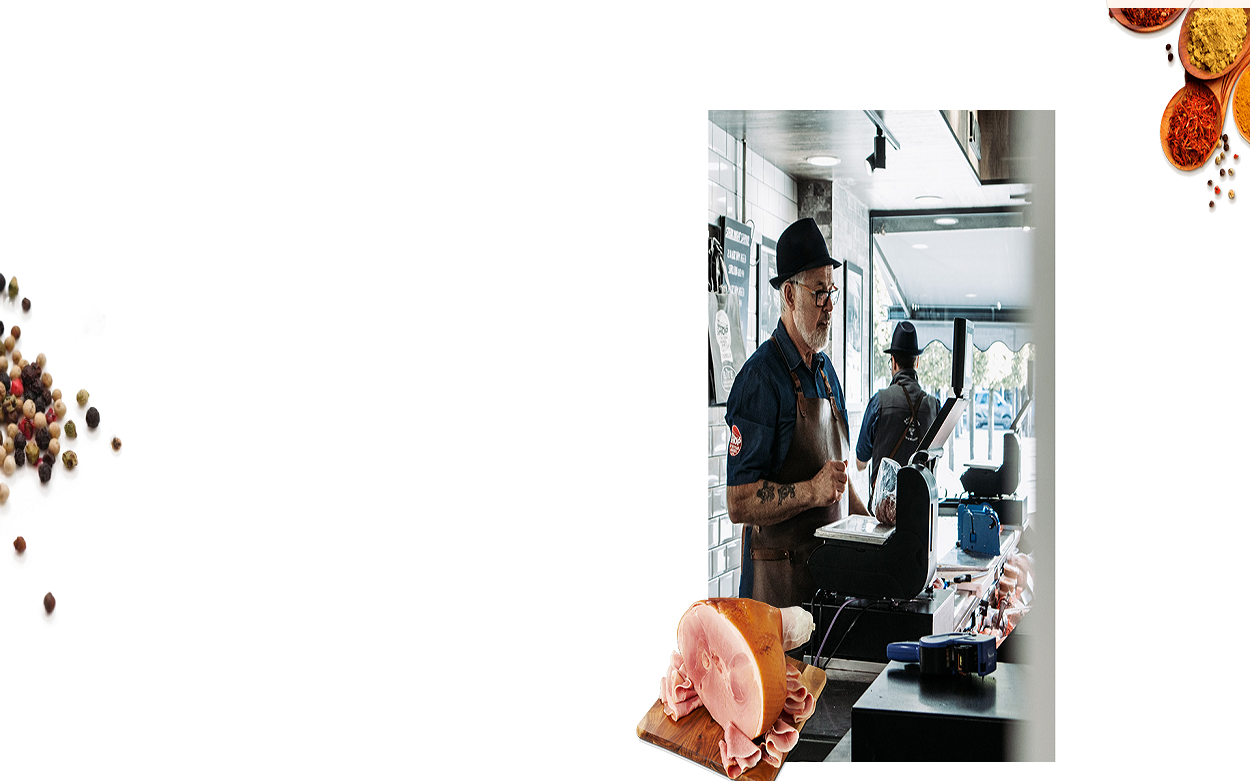
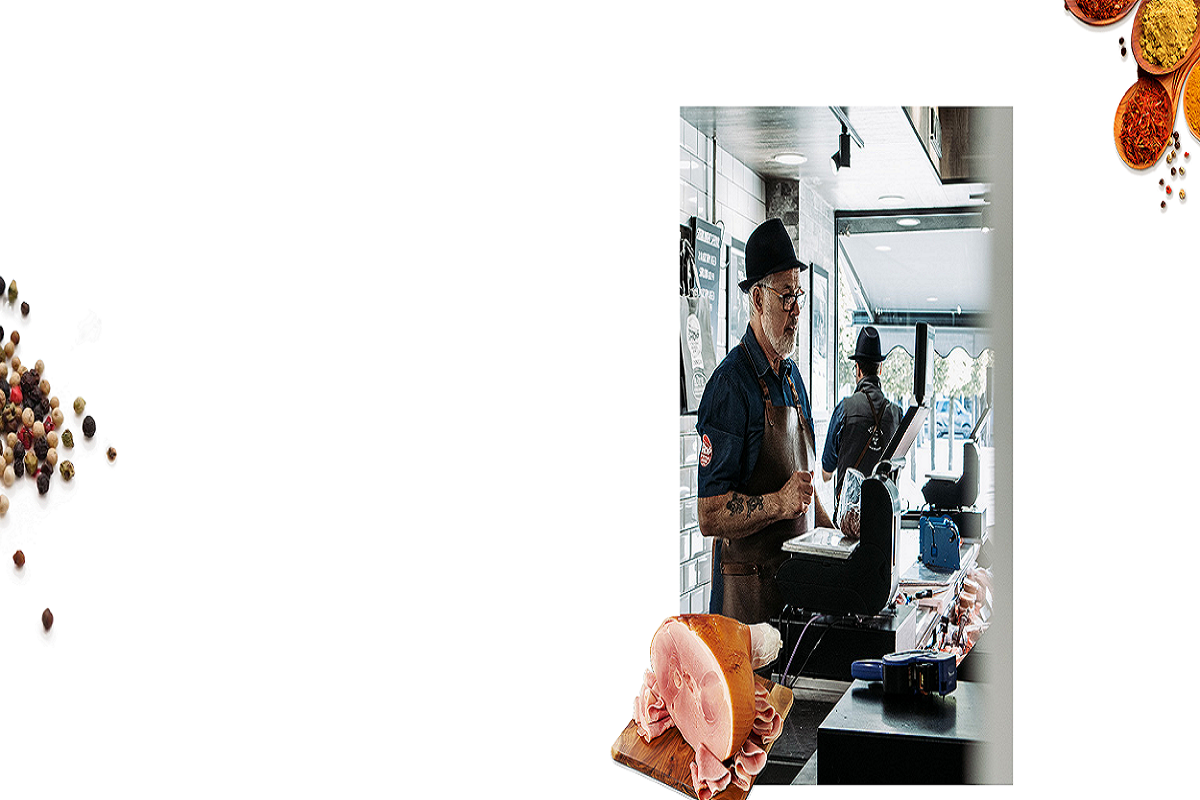
meat house story done

Changed region(s): [[0.4933, 0.1229, 0.8633, 1.0], [0.8633, 0.0, 1.0, 0.2766], [0.0, 0.338, 0.0925, 0.6146]]

diff --git a/assects/style/style.css b/assects/style/style.css
@@ -717,14 +717,19 @@ input[type=text] {
 /* ********************************** */
 
 .meat_house_story{
-    background-image: url('../img/meat_house_sstory/history.png');
+    background-image: url('../img/meat_house_sstory/meat_H_story.png');
     background-size: cover;
     background-repeat: no-repeat;
-    height: 750px;
-    padding: 90px 0px;
-    overflow: hidden;
-     border: var(--border);
+    height: 700px;
+    /* width: 100%; */
+    padding: 90px 40px;
+    position: relative;
+   
 }
+/* .sroty_defination{
+     border: var(--border);
+     
+} */
 .sroty_defination .heading3{
    
     text-transform: unset;
@@ -749,12 +754,12 @@ input[type=text] {
     /* overflow: hidden; */
 }
 .sroty_defination .grass_fed .grass_fed_definition .paragraph_item{
-    width: 100%;
+    width: 500px;
 }
 .sroty_defination .grass_fed .carbon_negative{
     border-top: 1px solid var(--off_white);
     padding: 30px 0px;
-    width: 400px;
+    width: 600px;
     border-bottom: 1px solid var(--off_white);
 }
 .sroty_defination .grass_fed .carbon_negative .carbon_square{
@@ -793,6 +798,18 @@ input[type=text] {
     font-size: 21px;
     line-height: 50px;
     text-transform: capitalize;
+}
+.meat_h_story_img{
+    height: 600px;
+    width: 400px;
+    position: absolute;
+    top: 90px;
+    right: 100px;
+}
+.meat_h_story_img img{
+    width: 100%;
+    height: 100%;
+    
 }
 
 /* ********************************* */

diff --git a/index.html b/index.html
@@ -500,6 +500,9 @@
             <div class="meat_house_story">
                 <div class="row">
                     <div class="col-1">
+                        <div class="bor">
+
+                        </div>
                     </div>
                     <div class="col-6">
                         <div class="sroty_defination">
@@ -511,9 +514,8 @@
                                 the meat house story
                             </h2>
                             <p class="heading3">
-                                All of the animals on our farm are lovingly cared for and believe that it really does
-                                affect the quality <br>
-                                of the meat we’re producing.
+                                All of the animals on our farm are lovingly cared for and believe that it really does 
+                                affect the quality of the meat we’re producing.
                             </p>
                             <div class="grass_fed">
                                <div class="row">
@@ -558,7 +560,9 @@
                     </div>
                 </div>
                 <div class="col-5">
-
+                    <div class="meat_h_story_img">
+                        <img src="./assects/img/meat_house_sstory/meat_story.png" alt="">
+                    </div>
                 </div>
 
             </div>
